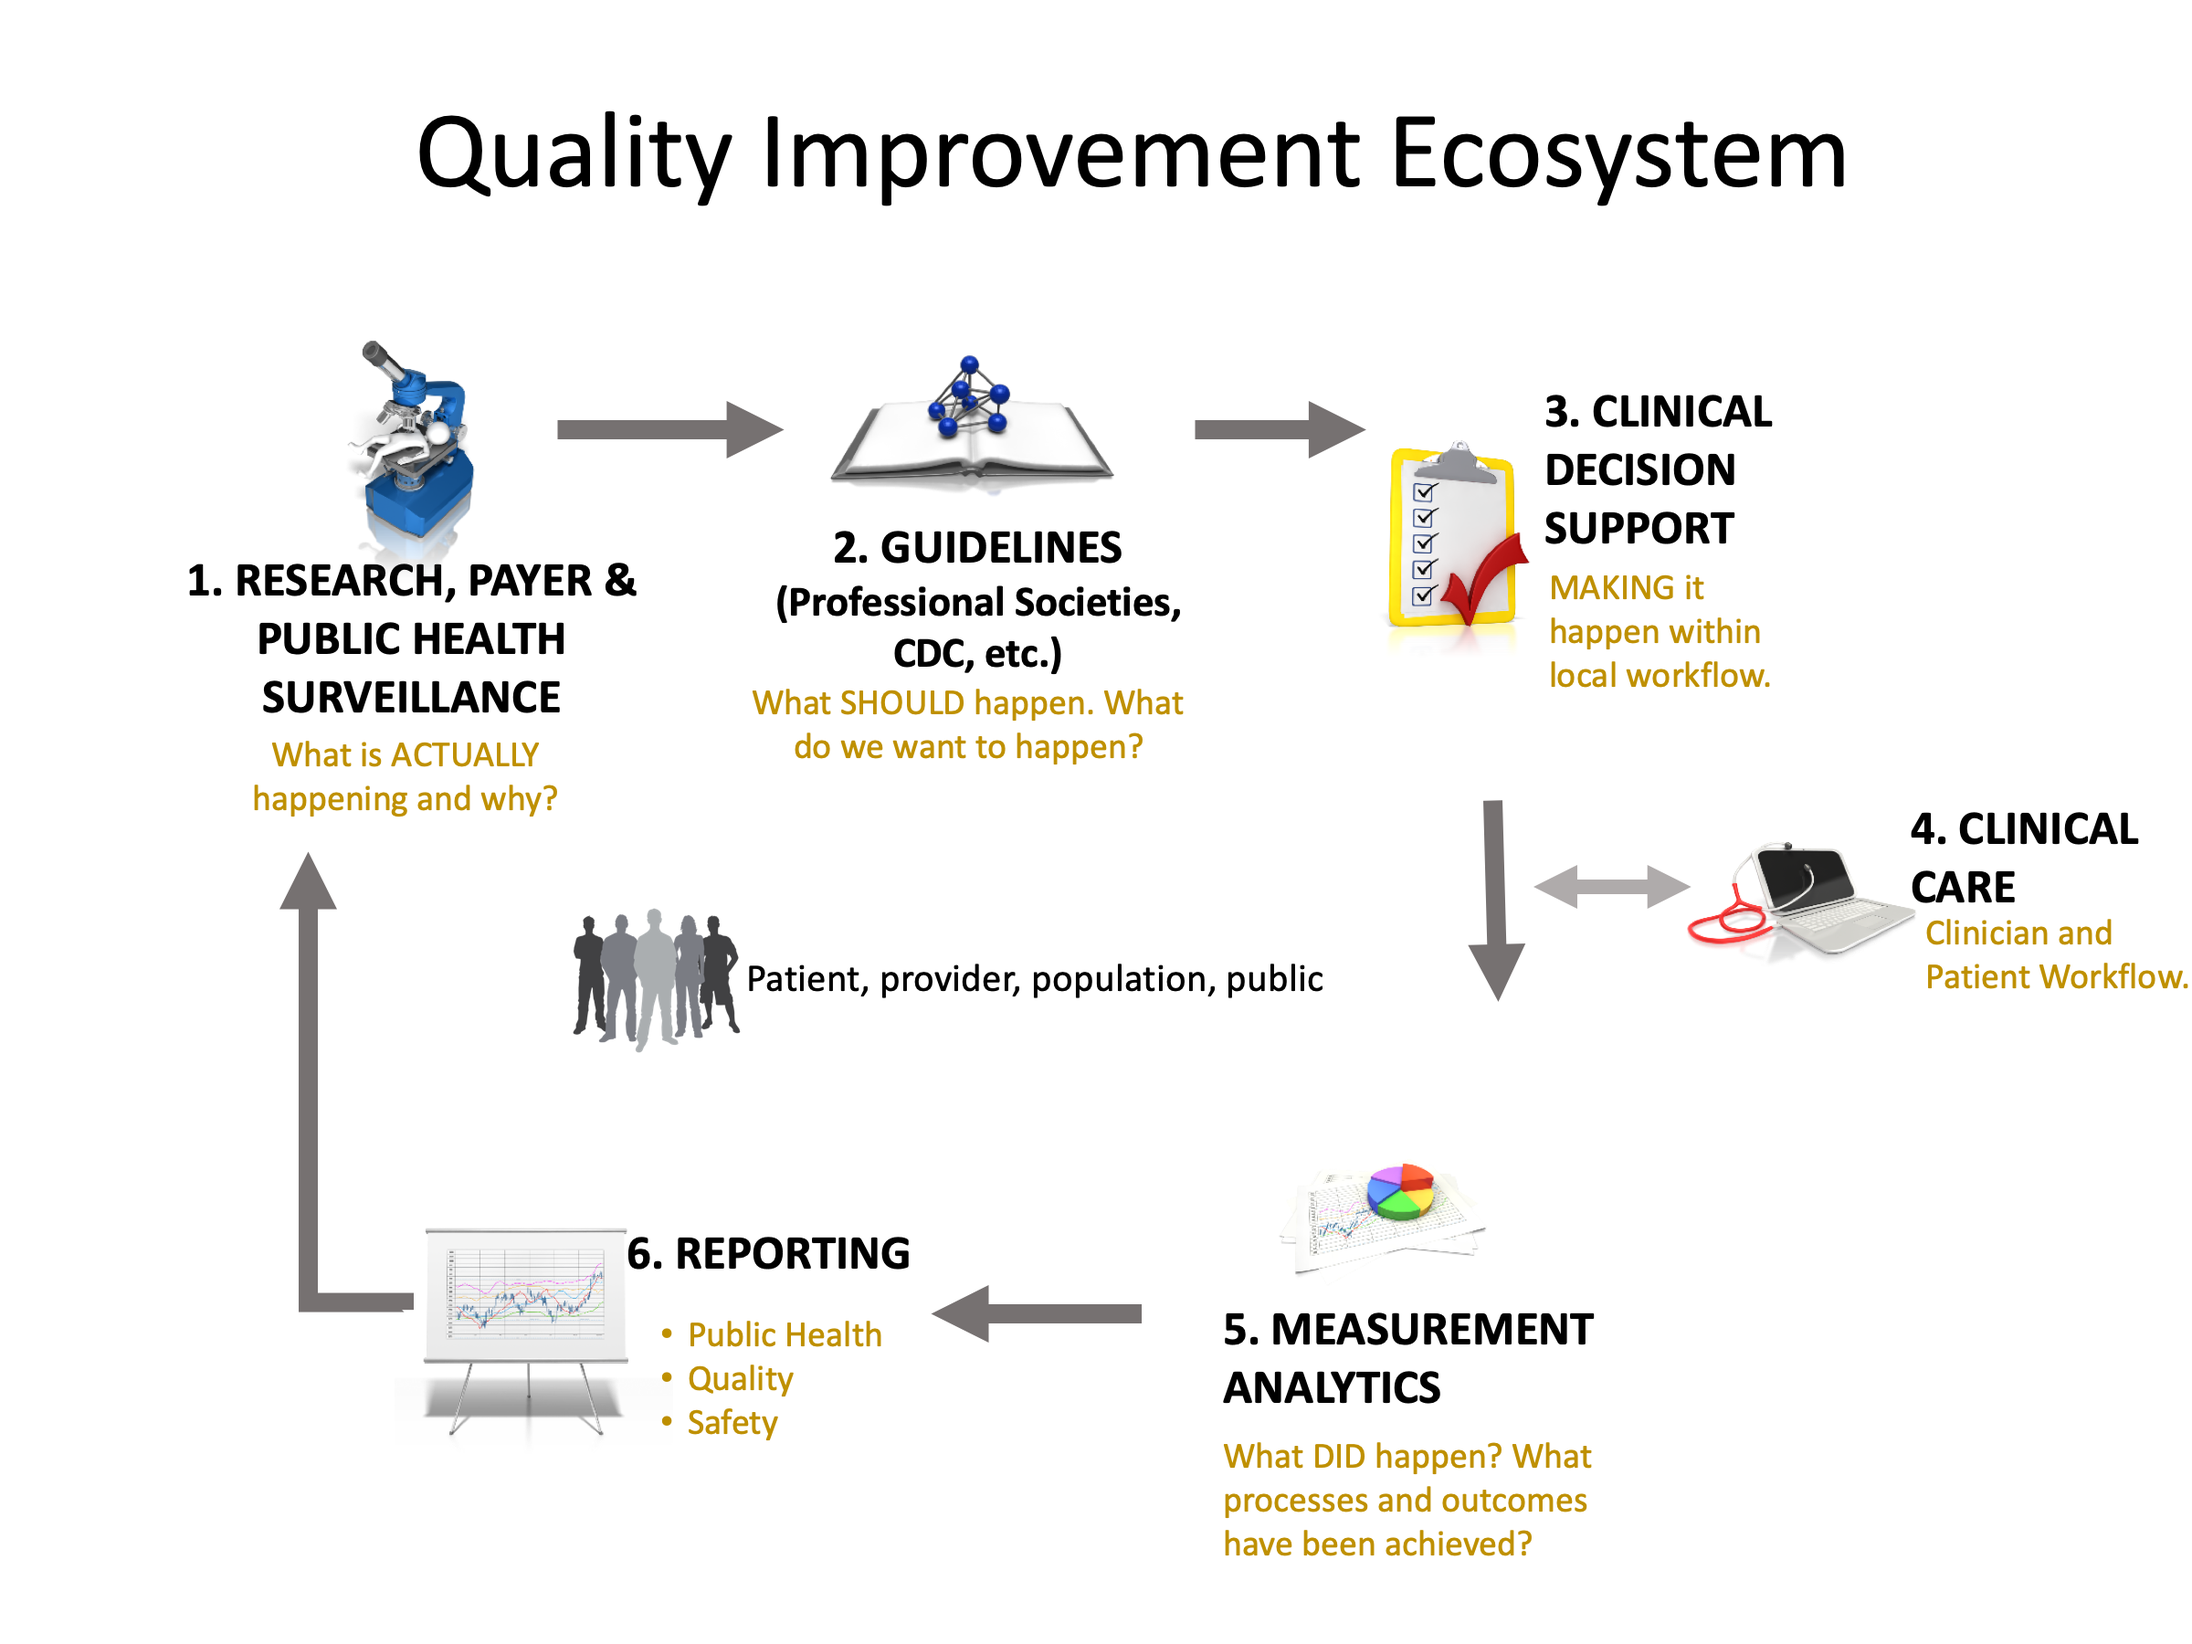
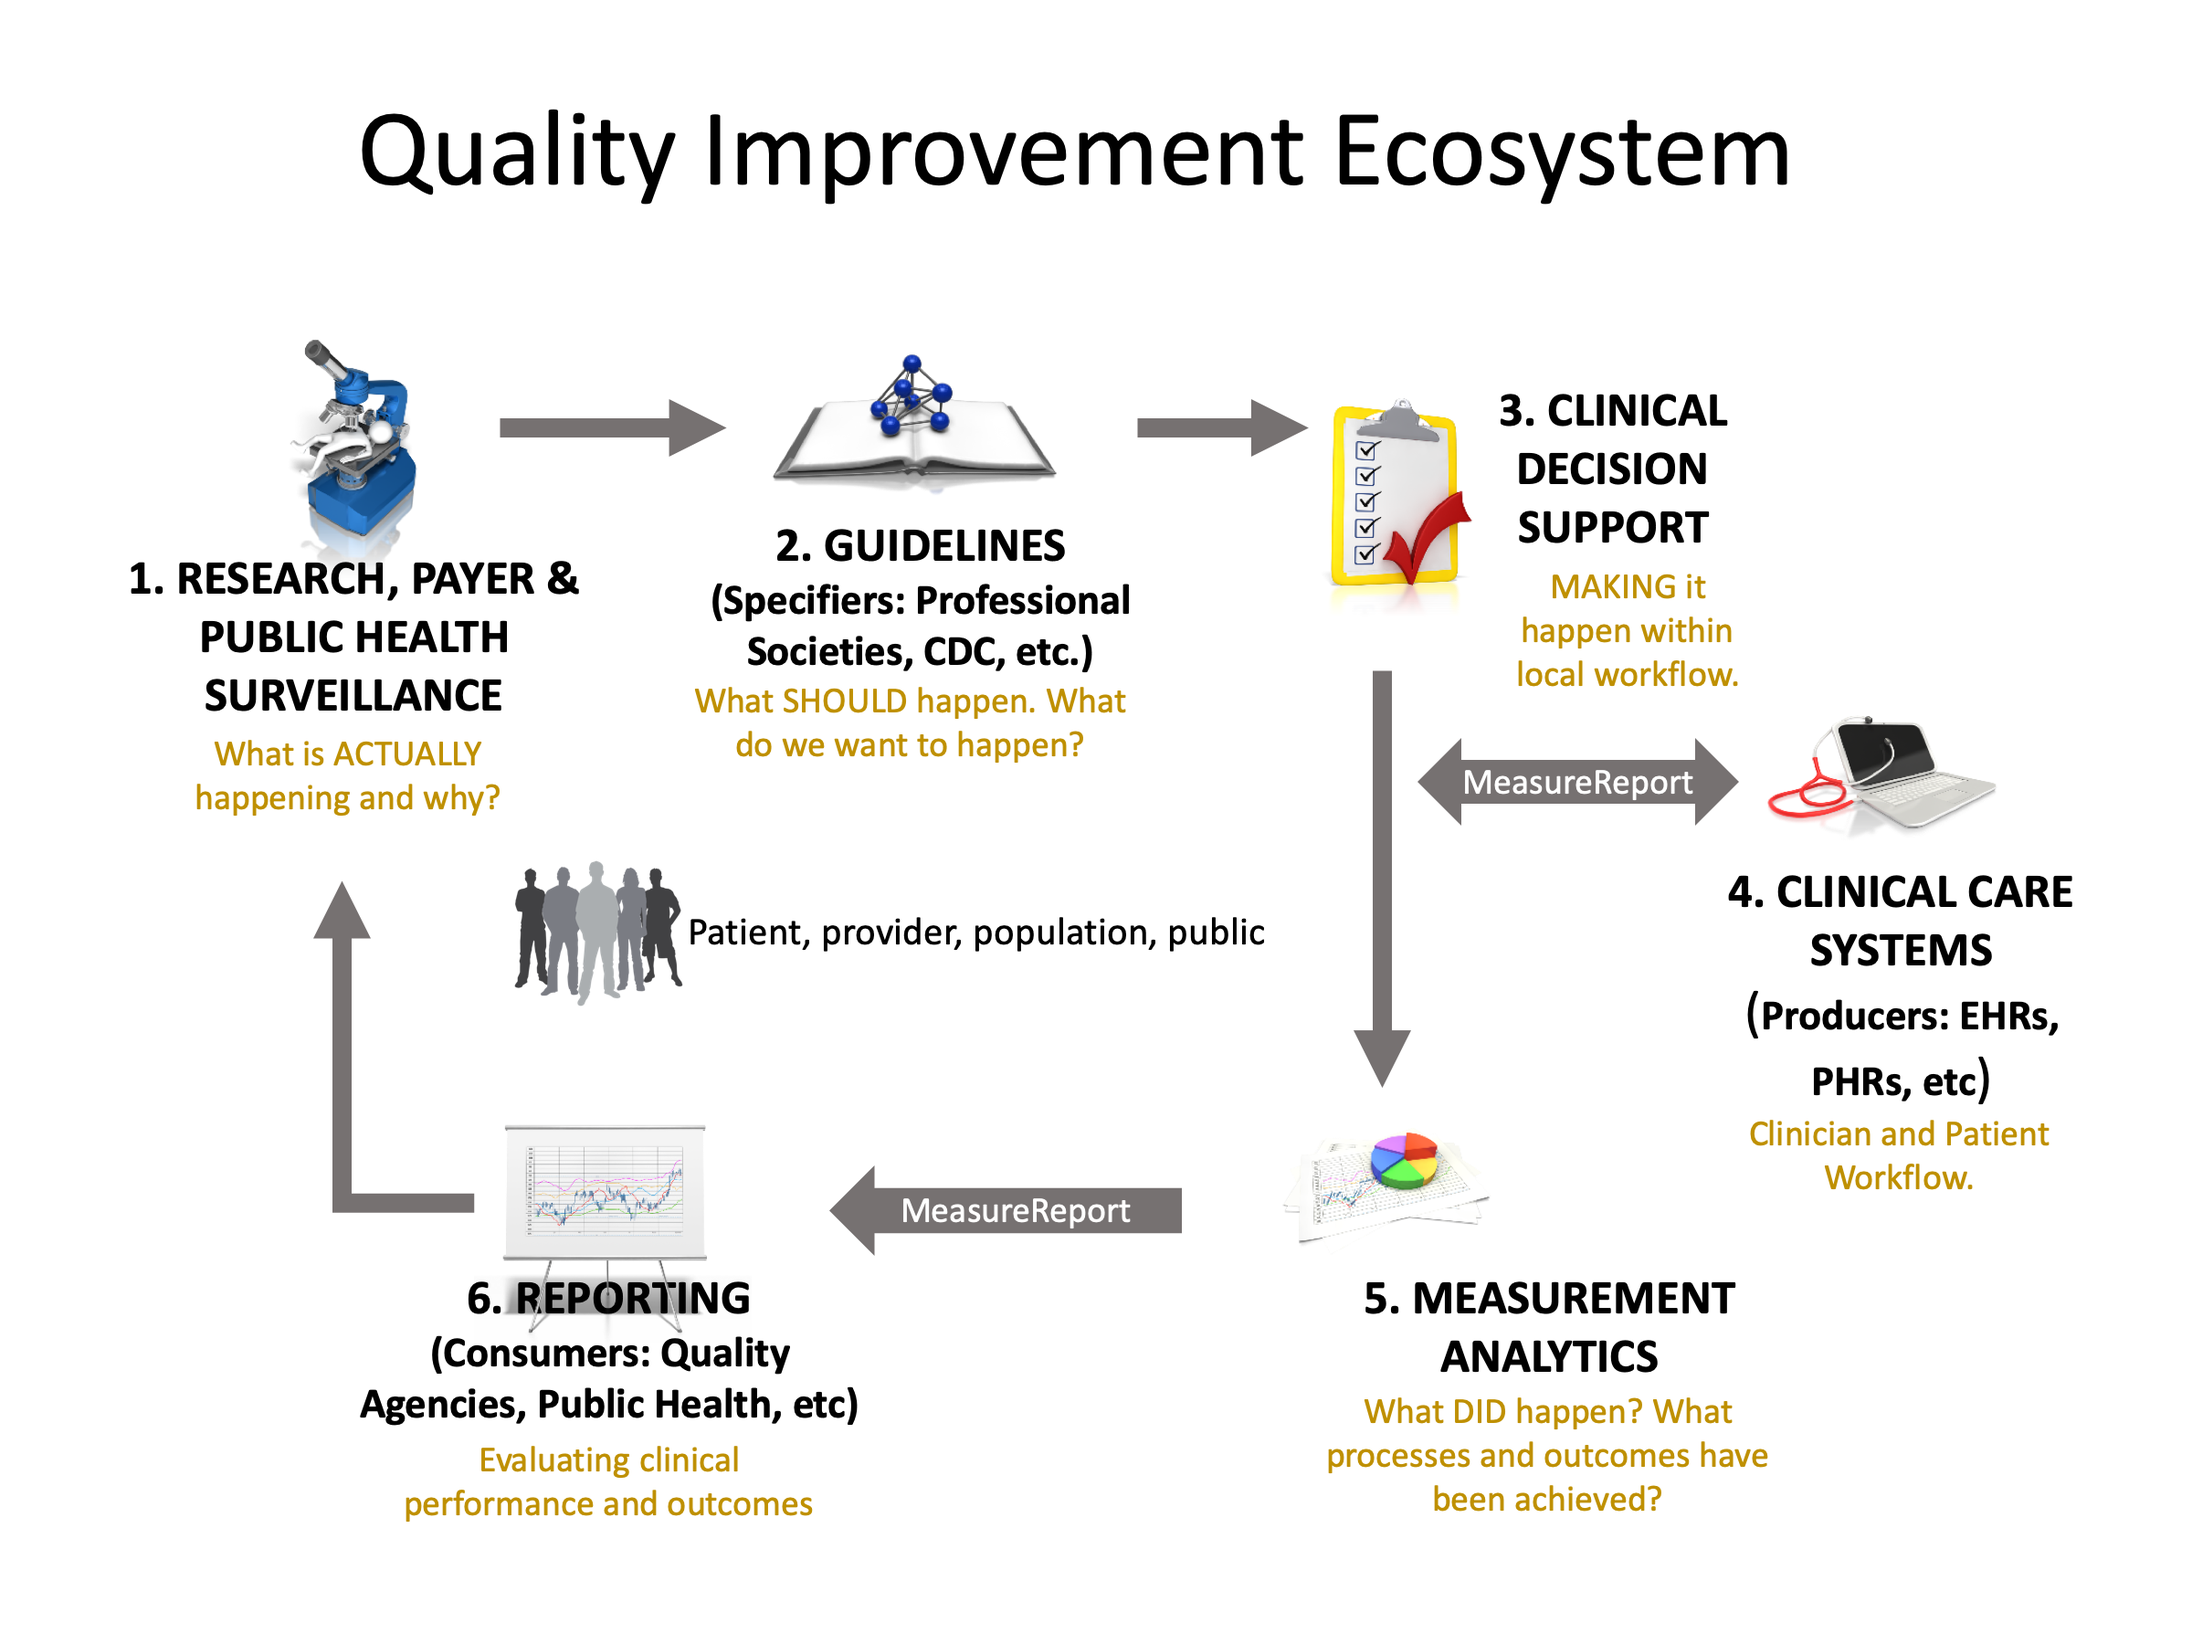
GF#20960 updates to  Quality Improvement Ecosystem Diagram

diff --git a/pages/index.html b/pages/index.html
@@ -27,7 +27,7 @@ layout: default
 <p>As shown in step 1 in the diagram below, the Quality Improvement Ecosystem begins with information, preferably evidence-based from research, public health surveillance, and data mining and other analyses performed by third parties such as payers. Such information indicates existing status and knowledge about a given clinical topic. In step 2, stakeholders, such as professional societies, public health and governmental bodies, and healthcare insurers have various methods for publishing such information to assure awareness among consumers, healthcare practitioners, and healthcare organizations about what is known and suggested methods for managing the clinical topic. Ideally, suggested management efforts are captured and documented in guidelines based on collaboration among clinical subject matter experts, terminologists, informaticists, clinicians and consumers.  In step 3, these clinical guidelines are translated into clinical decision support (CDS) artifacts to incorporate valuable clinical recommendations and actions directly within clinical workflow. To adequately impact clinical care for clinicians and patients requires local implementation activities as shown in Step 4. Ideally, the clinical guidelines and CDS include methods for evaluating what successful implementation means, i.e., whether the clinical care ultimately provided included processes that addressed the intent of the guideline and if it achieved the desired outcomes. In step 5, to close the loop and enable continuous improvement, the results of such measurement analytics must be reported for aggregate review. Step 6, "Reporting" serves the purpose of evaluating clinical performance and outcomes for healthcare organizations, for public health and for payers. <span id="content-ref-4">For additional information about idealized processes for moving evidence and information from guidelines to CDS and measurement, refer to an effort by the Centers for Disease Control and Prevention (CDC) called <a href="https://www.cdc.gov/ddphss/clinical-guidelines/index.html">Adapting Clinical Guidelines for the Digital Age</a>.
 
 <img src="assets/images/quality-improvement-ecosystem.png" alt="Quality Improvement Ecosystem" class="figure-img img-responsive img-rounded center-block"/>
-<p>Figure 1: The Quality Improment Ecosystem Diagram</p>
+<p>Figure 1: The Quality Improvement Ecosystem Diagram</p>
 
 <h4>Quality Measurement Standards Landscape</h4>
 
